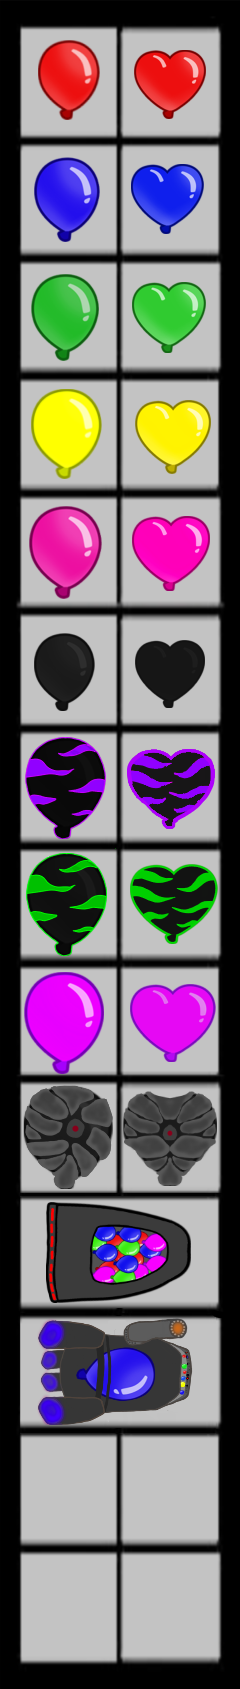
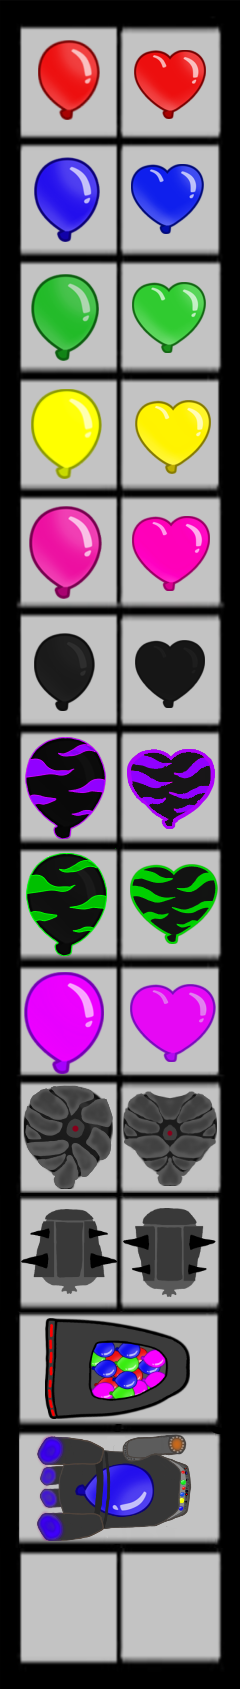
cdcsdc
dcd

Changed region(s): [[0.0583, 0.7081, 0.9333, 0.9236]]

diff --git a/BTD 0.py b/BTD 0.py
@@ -257,9 +257,6 @@ class Drt(pygame.sprite.Sprite):
                     loss.SY/=loss.S*10
                     loss.SX /=loss.S*10
                     loss.S = 0.1
-                    if 1<loss.ID<5:
-                        loss.ID=0
-
             # if ti % 7 == 0:
             #     for e in xplosions:
             #         e.t += 30
@@ -322,13 +319,13 @@ yeano=1
 rndbloon=[]
 
 class Bloon(pygame.sprite.Sprite):
-    def __init__(self,X,Y,S,H,f,r,ID,h,HH,spawn=[],EX=0,EY=0,sent=0):
+    def __init__(self,X,Y,S,H,f,r,ID,h,HH,spawn=[],armr=0,EY=0,sent=0):
         super(Bloon, self).__init__()
         global power,POWER,yeano
         blns.append(self)
         self.n=blntrac
-        self.armr=0
-        self.EX=EX
+        self.armr=armr
+        self.EX=0
         self.made=sent
         if sent==0:
             rndbloon.append(self)
@@ -353,7 +350,7 @@ class Bloon(pygame.sprite.Sprite):
                 self.I=self.i[self.H-1]
             elif self.ID==-1:
                 self.I=spe[1]
-            elif -1>self.ID>-6:
+            elif -1>self.ID>-7:
                 self.i = B
                 self.I=B[-self.ID+3]
         elif self.ID>-1:
@@ -364,7 +361,7 @@ class Bloon(pygame.sprite.Sprite):
         elif self.ID==-10:
             self.I=bossI
             self.img=bossI
-        elif -1>self.ID>-6:
+        elif -1>self.ID>-7:
             self.I=A[-self.ID+3]
         elif self.ID == -11:
             self.I=boss2
@@ -418,10 +415,10 @@ class Bloon(pygame.sprite.Sprite):
     def make(self,which,overkill):
         if which+overkill>-1:
             bloonlistdingus = [[2, 1, 1, 1, []], [4, 2, 2, 1, []], [6, 3, 3, 1, []], [8, 4, 4, 1, []], [10, 5, 5, 1, []],
-                                 [0, 1, 6, -2, [[2, 4]]], [9, 4, 7, -3, [[1, 5], [1, 8]]], [10, 5, 8, -4, [[1, 5], [4, 2]]],
-                                 [15, int(6 + rn / 10), int(6 + rn / 10), -1, []],
-                                 [10, 20, 9, -5, [[5, 5]]], [25, rn + 50, 0, -11, [[4, 9]]],
-                                 [15, rn * 2 + 100, 0, -10, [[4, 10]]] ]
+                       [0, 1, 6, -2, [[2, 4]]], [9, 4, 7, -3, [[1, 5], [1, 8]]], [10, 5, 8, -4, [[1, 5], [4, 2]]],
+                       [15, int(6 + rn / 10), int(6 + rn / 10), -1, []],
+                       [10, 20, 9, -5, [[5, 5]]],[7, int(30 + rn / 8), int(30 + rn / 8),-6,[[4,9]],2], [25, rn + 65, 0, -11, [[4, 10]]],
+                       [15, rn * 2 + 120, 0, -10, [[4, 11]]] ]
 
             what=bloonlistdingus[which]
             if what[3] > -10:
@@ -429,14 +426,12 @@ class Bloon(pygame.sprite.Sprite):
             # what = [speed,health,HH(wierdhelf),ID,spawn,EX,EY]
 
             if len(what)>5:
-                ghl = what[5]
-                kgli = what[6]
+                armour = what[5]
             else:
-                ghl = 0
-                kgli = 0
+                armour = 0
             newbloon=Bloon(self.X +random.randint(-70,70), self.Y+random.randint(-70,70), (what[0])/5
                                 , what[1], self.f
-                                , self.r, what[3], self.h,what[2],what[4], ghl, kgli,self.made)
+                                , self.r, what[3], self.h,what[2],what[4], armour, 0,self.made)
             bloons.append(newbloon)
             if overkill<0:
                 newbloon.hploss(-overkill)
@@ -446,7 +441,8 @@ class Bloon(pygame.sprite.Sprite):
                 e.HH += min(howmuch,e.h-e.HH)
                 if e.HH>5 and not e.ID==-1:
                     forms = [[0, 1, -2, [[2,4]]], [9, 4, -3, [[1, 5], [1, 8]]], [10, 5, -4, [[1, 5], [4, 2]]],
-                             [10, 20, -5, [[5, 1]]]]
+                             [10, 20, -5, [[5, 5]]],[7, int(30 + rn / 8), -6,[[4,9]],1]]
+
                     if e.HH > 6:
                         e.HH = e.h
                     form = forms[e.HH-6]
@@ -459,6 +455,8 @@ class Bloon(pygame.sprite.Sprite):
                     e.SX *= e.S
                     e.SY *= e.S
                     e.I = B[e.HH-1]
+                    if len(form)>4:
+                        e.armr = form[4]
                             # if e.h == 13:
                             #     e.ID = -3
                             #     e.H = 4
@@ -653,12 +651,11 @@ def blnM():
             else:
                 e.f+=2
                 if e.f>21:
-                    health-=e.H+Bloondamage[e.HH]
+                    health-=e.H
                     murder.append(e)
                     e.f=0
                     if health<0:
                         death(100,h//2-200)
-Bloondamage=[0,0,0,0,0,10,17,23,0,55,300,1420]
 power=0             
 POWER=0
 xplosions=[]           
@@ -674,10 +671,10 @@ elo=0
 spdy=0
 A = [loadify('bloon'),loadify('blnB'),loadify('blngreen')
      ,loadify('blnyellow'),loadify('blnpink'),loadify('blnblac')
-     ,loadify('tigerP'),loadify('tigerG'),loadify('blackrockbloon')]
+     ,loadify('tigerP'),loadify('tigerG'),loadify('blackrockbloon'),loadify('platebloon')]
 B = [loadify('regred'),loadify('regblu'),loadify('reggrn')
      ,loadify('regyel'),loadify('regpin'),loadify('regbla')
-     ,loadify('regpu2'),loadify('reggr2'),loadify('regblackrockbloon')]
+     ,loadify('regpu2'),loadify('reggr2'),loadify('regblackrockbloon'),loadify('regplate')]
 force=[]
 drtmonks = []
 drts=[]
@@ -692,8 +689,8 @@ def sendbloon(stuff):
     bloonlistcomplete = [[2, 1, 1, 1, []], [4, 2, 2, 1, []], [6, 3, 3, 1, []], [8, 4, 4, 1, []], [10, 5, 5, 1, []],
                        [0, 1, 6, -2, [[2, 4]]], [9, 4, 7, -3, [[1, 5], [1, 8]]], [10, 5, 8, -4, [[1, 5], [4, 2]]],
                        [15, int(6 + rn / 10), int(6 + rn / 10), -1, []],
-                       [10, 20, 9, -5, [[5, 5]]], [25, rn + 50, 0, -11, [[4, 9]]],
-                       [15, rn * 2 + 100, 0, -10, [[4, 10]]] ]
+                       [10, 20, 9, -5, [[5, 5]]],[7, int(30 + rn / 8), 10,-6,[[4,9]],1], [25, rn + 65, 0, -11, [[4, 10]]],
+                       [15, rn * 2 + 120, 0, -10, [[4, 11]]] ]
     what = bloonlistcomplete[stuff[1]]
     if len(stuff)>3:
         sent=0
@@ -701,12 +698,16 @@ def sendbloon(stuff):
     else:
         spc=5
         sent=1
+    if len(what) > 5:
+        armour = what[5]
+    else:
+        armour = 0
     if what[3]>-10:
         what[0]+=min(rn,60)/5
     for e in range (stuff[0]):
         bloons.append(Bloon(-50 - e * spc,150, (what[0])/5
                             , what[1], 1
-                            ,stuff[2], what[3], what[2], what[2],what[4],0,0,sent))
+                            ,stuff[2], what[3], what[2], what[2],what[4],armour,0,sent))
 income=25
 def roundshow(x,y,l):
     dead = fint.render("round" + str(l), True, (0, 255, 0))
@@ -809,8 +810,8 @@ def upgrade():
                                         e.I=loadify('grmn')
                                         e.MI=loadify('tureetb')
                                         e.ID=loadify('explodrt')
-                                        e.c*=1.2
-                                        e.P=[70,1]
+                                        e.c*=10
+                                        e.P=[50,1]
                                         money-=170
                                         cl=0
 
@@ -1190,8 +1191,8 @@ back=pygame.transform.smoothscale(loadify('btd map'),(w,h))
 bloonamount=loadify("killerrock")
 drts3=[]
 bloonumba=1
-bloonprices=[ [[1,0.2],[2,0.5]], [[2,0.4],[4,0.9]], [[3,0.6],[6,1.5]], [[4,0.9],[7,1.7]], [[5,1.2],[10,2.5]],
-             [[10,2],[24,4]], [[14,2.4],[30,4.4]], [[14,2.4],[30,4.4]], [[10,1.8],[24,4.1]], [[90,0.5],[200,1]], [[400,1]],[[900,-50]] ]
+bloonprices=[ [[1,0.1],[2,0.23]], [[2,0.2],[4,0.5]], [[3,0.3],[6,0.77]], [[4,0.4],[7,0.9]], [[5,0.5],[10,1.3]],
+             [[10,1],[24,2]], [[14,1.2],[30,2.2]], [[14,1.2],[30,2.2]], [[10,0.9],[24,2]], [[90,0.25],[200,0.5]], [[300,0],[500,0]], [[800,1]],[[1800,-50]] ]
 while running:
     XX = pygame.mouse.get_pos()
     for event in pygame.event.get():

diff --git a/btdserver.py b/btdserver.py
@@ -144,7 +144,7 @@ def rnd(b):
         ch = random.randint(9, 13)
         if ch == 13:
             regrow = 0
-            ch=12
+            ch=13
         else:
             ch=5
     elif regrow == 1:
@@ -154,8 +154,8 @@ def rnd(b):
 
     if ch == 5:
         if rn > 30:
-            ch = random.randint(1, 11)
-            if ch==11:
+            ch = random.randint(1, 12)
+            if ch==12:
                 regrow=0
             elif ch == 7:
                 spc += 10
